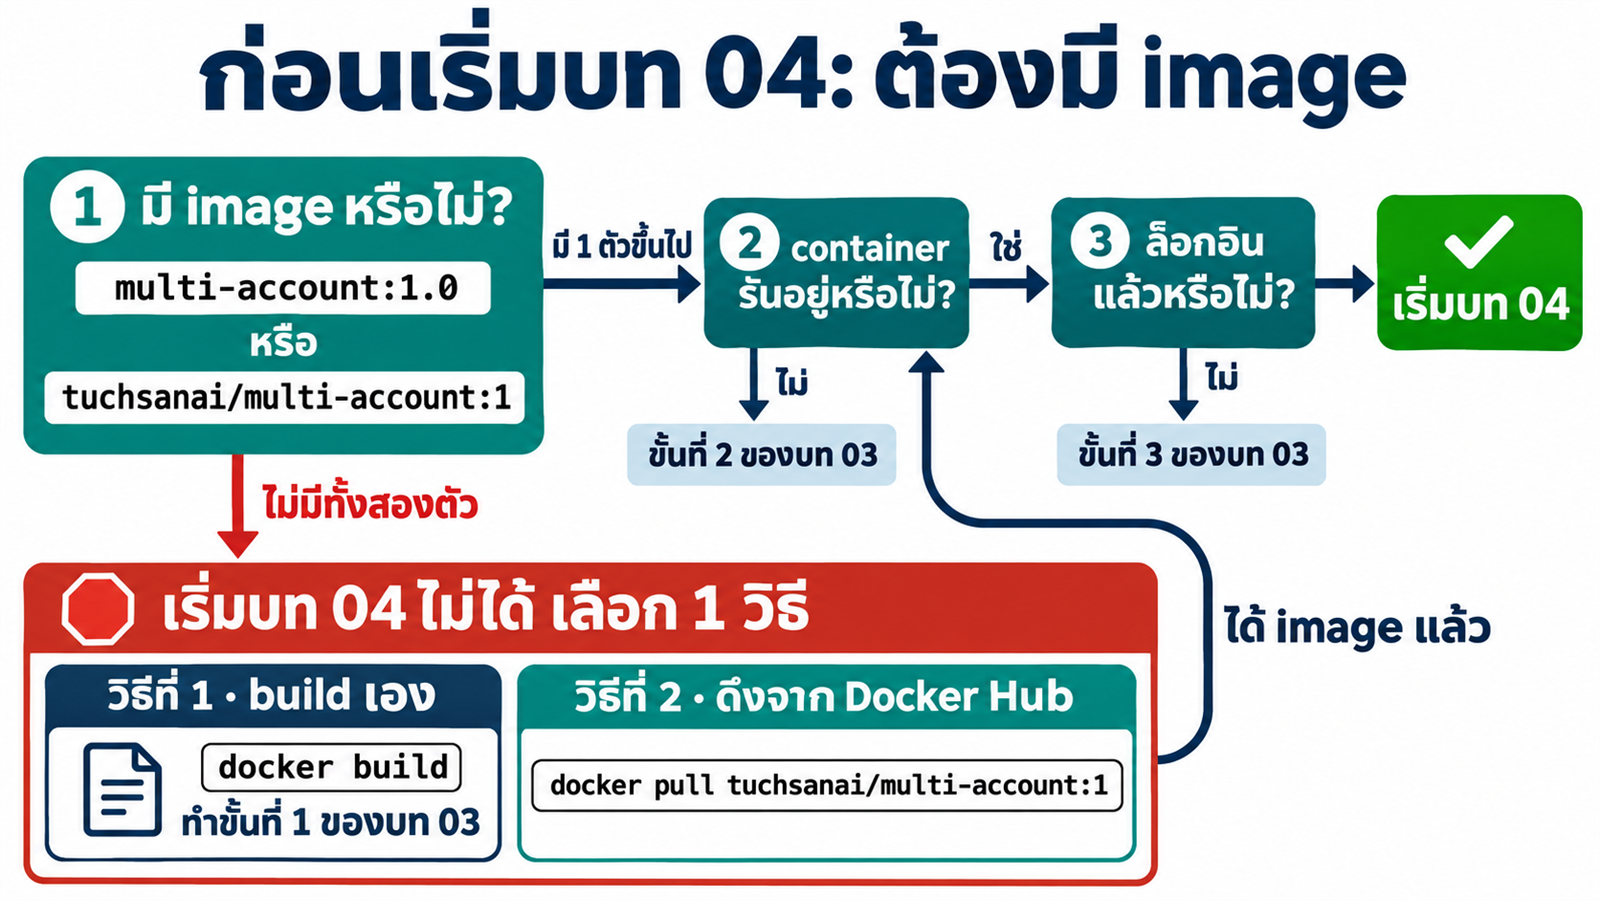
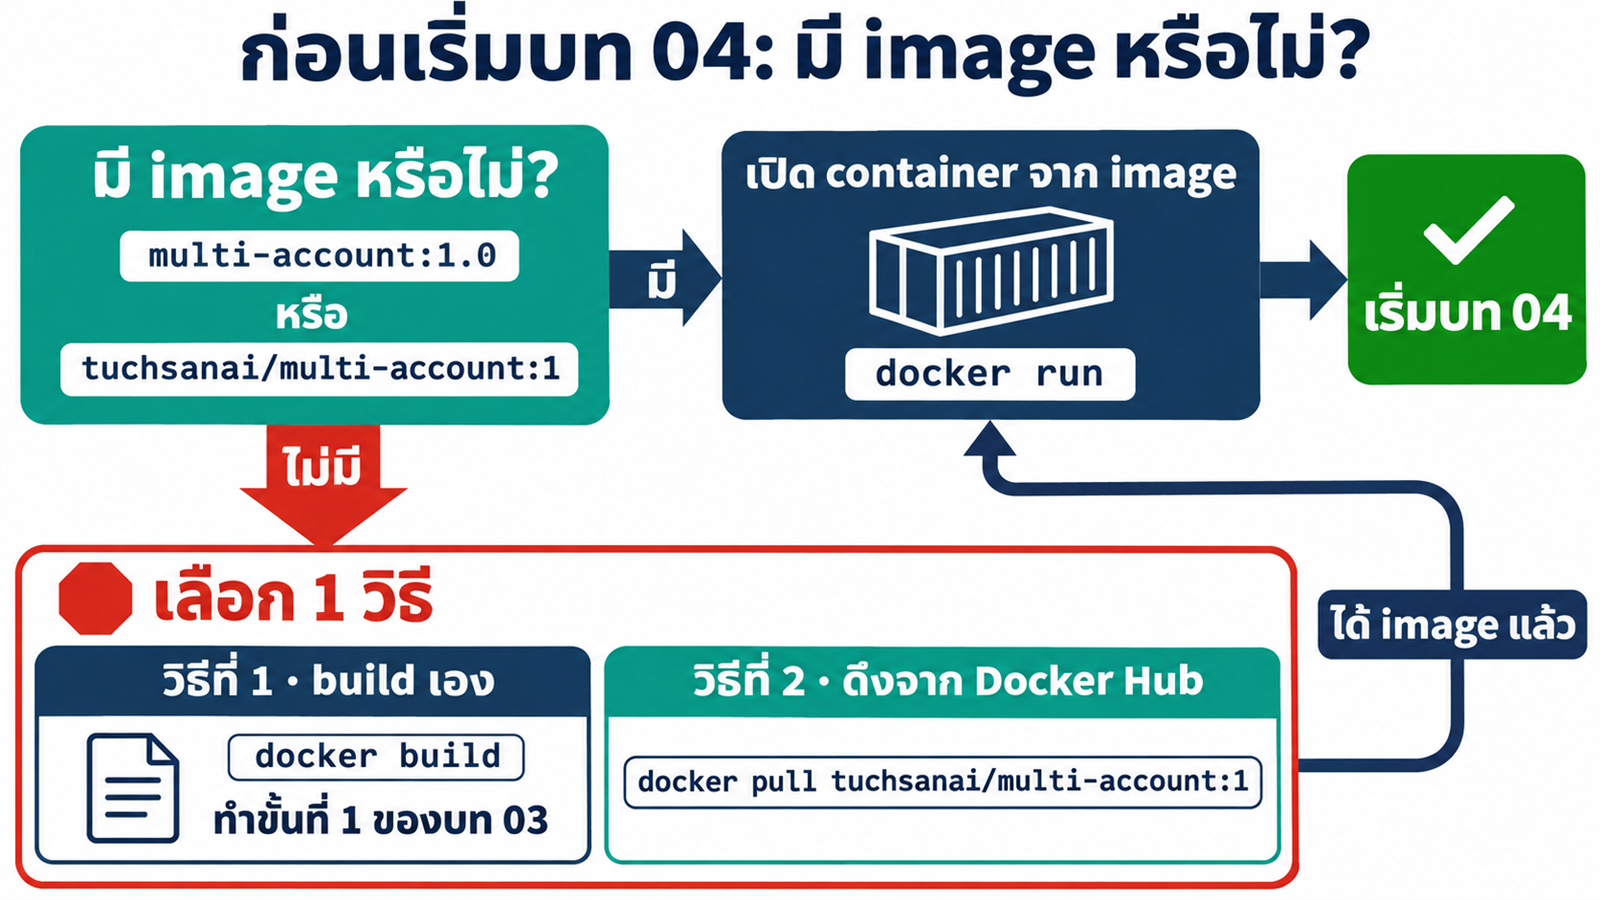
Week 02 ch04: simplify step 0 to one question, is the image there

diff --git a/01_week02/04_MultiAccount_Skill/README.md b/01_week02/04_MultiAccount_Skill/README.md
@@ -5,7 +5,7 @@
 ใช้ container `multi-account` จาก [03_MultiAccount_Container](../03_MultiAccount_Container/README.md) สร้างสกิลให้ AI สั่ง `yolo1–5` และ `cyolo1–5` เป็นทีม พร้อมสถิติของทุกบัญชี
 
 > [!CAUTION]
-> **ต้องมี image `multi-account:1.0` หรือ `tuchsanai/multi-account:1` ก่อน** ถ้าไม่มีทั้งสองตัว จะทำบทนี้ไม่ได้เลย ให้ build จาก[บท 03](../03_MultiAccount_Container/README.md) หรือดึงจาก Docker Hub ตาม[ขั้นที่ 0](#ขั้นที่-0--ตรวจว่ามี-image-และ-container-จากบท-03)
+> **ต้องมี image `multi-account:1.0` หรือ `tuchsanai/multi-account:1` ก่อน** ถ้าไม่มีทั้งสองตัว จะทำบทนี้ไม่ได้เลย ให้ build จาก[บท 03](../03_MultiAccount_Container/README.md) หรือดึงจาก Docker Hub ตาม[ขั้นที่ 0](#ขั้นที่-0--ตรวจว่ามี-image-แล้วเปิด-container)
 
 ## 1. ปัญหา: มีคำสั่งครบ แต่ AI ยังใช้ไม่เป็น
 
@@ -190,16 +190,16 @@ skills/
 
 | ขั้น | ทำที่ไหน | เวลารันจริง |
 |---|---|---|
-| **0 · ตรวจว่ามี image และ container จากบท 03** | Claude Code app | – |
+| **0 · ตรวจว่ามี image แล้วเปิด container** | Claude Code app | – |
 | **1 · ให้ Claude สร้างสกิลจากสเปก (จากศูนย์)** | Claude Code app | ~43 นาที |
 | **2 · ติดตั้งสกิลด้วยการคัดลอกโฟลเดอร์** | Claude Code app (หรือลากวางใน JupyterLab) | 67.9 วินาที |
 | **3 · ทดสอบงานทีมชุดเดิมอีกครั้ง** | Claude Code app | 170.5 วินาที |
 | **4 · สลับหัวหน้าทีมและบริหารโทเค็น** | Claude Code app | 138.6 วินาที (run 69 วินาที) |
 
 > [!CAUTION]
-> **ไม่มี image `multi-account:1.0` หรือ `tuchsanai/multi-account:1` = เริ่มบทนี้ไม่ได้** ทุกขั้นทำงานใน container ที่สร้างจาก image นี้ ถ้ายังไม่มี ให้เลือก 1 ใน 2 วิธีใน[ขั้นที่ 0](#ขั้นที่-0--ตรวจว่ามี-image-และ-container-จากบท-03)
+> **ไม่มี image `multi-account:1.0` หรือ `tuchsanai/multi-account:1` = เริ่มบทนี้ไม่ได้** ทุกขั้นทำงานใน container ที่สร้างจาก image นี้ ถ้ายังไม่มี ให้เลือก 1 ใน 2 วิธีใน[ขั้นที่ 0](#ขั้นที่-0--ตรวจว่ามี-image-แล้วเปิด-container)
 
-**ต้องมีก่อน:** image `multi-account:1.0` หรือ `tuchsanai/multi-account:1` · container `multi-account` กำลังรัน · ล็อกอินอย่างน้อย 1 บัญชี Claude กับ 1 บัญชี Codex (ล็อกอินมากขึ้น ทีมก็ทำงานขนานได้มากขึ้น)
+**ต้องมีก่อน:** image `multi-account:1.0` หรือ `tuchsanai/multi-account:1`
 
 บทนี้ใช้ค่าต่อไปนี้จากบท 03 โดยตรง
 
@@ -211,7 +211,7 @@ skills/
 | โฟลเดอร์งาน | `03_MultiAccount_Container/workspace` → `/workspace` | ผลงานและข้อมูลของทุก run |
 | JupyterLab | `http://localhost:8886/lab` | ลากวางสกิลในขั้นที่ 2 (ถ้าบท 03 ใช้ port อื่น ให้เปลี่ยน `8886`) |
 
-สกิลและพรอมต์ระบุชื่อ `multi-account` ไว้ตายตัว จึงต้องตั้งชื่อ container ตามขั้นที่ 2 ของบท 03 ส่วน `/maccount` สร้าง container ชื่อ `multi-account-devtool` จึงใช้กับบทนี้ไม่ได้
+สกิลและพรอมต์ระบุชื่อ `multi-account` ไว้ตายตัว ขั้นที่ 0 จึงเปิด container ด้วยชื่อนี้ ส่วน `/maccount` สร้าง container ชื่อ `multi-account-devtool` จึงใช้กับบทนี้ไม่ได้
 
 **เปิดโฟลเดอร์งาน:** ใน Claude Code app เลือก **Code** → **New session** → เลือกโฟลเดอร์ `04_MultiAccount_Skill` ของรีโปนี้
 
@@ -225,41 +225,37 @@ skills/
     └── BENCHMARK.md       ← ผลวัด: สกิลจากศูนย์เทียบกับสกิลชุดเดิม
 ```
 
-## ขั้นที่ 0 · ตรวจว่ามี image และ container จากบท 03
+## ขั้นที่ 0 · ตรวจว่ามี image แล้วเปิด container
 
-ทำขั้นนี้ก่อนทุกครั้ง ผ่านครบแล้วจึงไปขั้นที่ 1
+บทนี้เริ่มจากคำถามเดียว: **มี image หรือไม่**
 
-![ด่านตรวจก่อนเริ่มบท 04: ด่านที่ 1 มี image multi-account:1.0 หรือ tuchsanai/multi-account:1 หรือไม่ ถ้าไม่มีทั้งสองตัวจะเริ่มบท 04 ไม่ได้ ให้เลือกวิธีที่ 1 build เองตามขั้นที่ 1 ของบท 03 หรือวิธีที่ 2 docker pull tuchsanai/multi-account:1 จาก Docker Hub ด่านที่ 2 container รันอยู่หรือไม่ ด่านที่ 3 ล็อกอินแล้วหรือไม่ ผ่านครบจึงเริ่มบท 04](img/concept-13-image-prerequisite.png)
+![ก่อนเริ่มบท 04: มี image multi-account:1.0 หรือ tuchsanai/multi-account:1 หรือไม่ ถ้ามี เปิด container จาก image ด้วย docker run แล้วเริ่มบท 04 ถ้าไม่มี เลือก 1 วิธี วิธีที่ 1 build เองตามขั้นที่ 1 ของบท 03 วิธีที่ 2 docker pull tuchsanai/multi-account:1 จาก Docker Hub](img/concept-13-image-prerequisite.png)
+
+### มี image: เปิด container
 
 > [!IMPORTANT]
 > **📋 คัดลอกกล่องนี้ → Claude Code app แล้วกด Enter**
 >
 > ```text
-> ตรวจความพร้อมก่อนเริ่มบท 04 ตรวจอย่างเดียว ห้าม build สร้าง ลบ หยุด หรือแก้ container / image / volume และห้ามล็อกอินแทนผม (ยกเว้น docker tag ในข้อ 1)
+> ตรวจ image แล้วเปิด container สำหรับบท 04 ห้ามลบ container / image / volume ที่มีอยู่ และห้ามล็อกอินแทนผม
 > 1. มี image multi-account:1.0 หรือ tuchsanai/multi-account:1 อย่างน้อย 1 ตัวหรือไม่ (docker image inspect)
->    ถ้ามีเฉพาะ tuchsanai/multi-account:1 ให้สั่ง docker tag tuchsanai/multi-account:1 multi-account:1.0
 >    ถ้าไม่มีทั้งสองตัว ให้หยุดทันทีและบอกว่าต้อง build จากบท 03 หรือ docker pull tuchsanai/multi-account:1 ก่อน
-> 2. container multi-account กำลังรันและสร้างจาก image multi-account:1.0 หรือไม่
-> 3. volume ai-accounts ต่ออยู่ที่ /root/ai-accounts และ /workspace ต่อกับโฟลเดอร์ใดบนเครื่องผม
-> 4. สถานะล็อกอิน yolo1..5 (yoloN auth status ดูแค่ loggedIn) และ cyolo1..5 (cyoloN login status) ห้ามแสดงอีเมล องค์กร หรือ token
-> สรุปเป็นตาราง รายการ | ผล | สิ่งที่ต้องทำต่อ แล้วหยุด
+>    ถ้ามีเฉพาะ tuchsanai/multi-account:1 ให้สั่ง docker tag tuchsanai/multi-account:1 multi-account:1.0
+> 2. ถ้า container multi-account กำลังรันอยู่แล้ว ใช้ตัวเดิม ถ้าหยุดอยู่ให้ docker start ถ้ายังไม่มีให้สร้างด้วย
+>    docker run -dit --name multi-account --privileged -p <PORT>:8888 -v ai-accounts:/root/ai-accounts -v <path เต็มของ ../03_MultiAccount_Container/workspace>:/workspace multi-account:1.0
+>    PORT เริ่มที่ 8886 ถ้าชนใช้เลขว่างถัดไป และสร้างโฟลเดอร์ workspace ถ้ายังไม่มี
+> 3. รอจน http://localhost:<PORT>/lab ตอบ 200 แล้วดูสถานะล็อกอิน yolo1..5 (yoloN auth status ดูแค่ loggedIn) และ cyolo1..5 (cyoloN login status) ห้ามแสดงอีเมล องค์กร หรือ token
+> สรุปเป็นตาราง image | container | URL ของ JupyterLab | บัญชี | ล็อกอินแล้ว/ยัง แล้วหยุด
 > ```
 
-| ผลที่ได้ | ทำต่อ |
-|---|---|
-| **ไม่มีทั้ง `multi-account:1.0` และ `tuchsanai/multi-account:1`** | **หยุด** เลือก 1 ใน 2 วิธีด้านล่าง |
-| มี image แต่ไม่มี container หรือ container ไม่ได้รัน | ทำ[ขั้นที่ 2 ของบท 03](../03_MultiAccount_Container/README.md#ขั้นที่-2--สร้าง-container-จาก-image-1-นาที) |
-| ยังไม่มีบัญชี Claude หรือ Codex ที่ล็อกอิน | ทำ[ขั้นที่ 3 ของบท 03](../03_MultiAccount_Container/README.md#ขั้นที่-3--ล็อกอินและให้-claude-ตรวจสถานะ-15-นาที) |
-| ผ่านครบ | ไปขั้นที่ 1 |
+ขั้นถัดไปใช้บัญชีจริง ถ้ายังไม่ได้ล็อกอิน ให้ล็อกอินอย่างน้อย 1 บัญชี Claude กับ 1 บัญชี Codex ตาม[ขั้นที่ 3 ของบท 03](../03_MultiAccount_Container/README.md#ขั้นที่-3--ล็อกอินและให้-claude-ตรวจสถานะ-15-นาที)
 
-### ถ้าไม่มี image: เลือก 1 ใน 2 วิธี
+### ไม่มี image: เลือก 1 ใน 2 วิธี
 
 | วิธี | ทำอย่างไร | เหมาะกับ |
 |---|---|---|
 | **1 · build เอง** | ทำ[ขั้นที่ 1 ของบท 03](../03_MultiAccount_Container/README.md#ขั้นที่-1--ให้-claude-สร้าง-image-30-นาที) (~30 นาที) | อยากเข้าใจและควบคุมสิ่งที่อยู่ใน image |
 | **2 · ดึงจาก Docker Hub** | วางพรอมต์ในกล่องด้านล่าง | ต้องการเริ่มบทนี้เร็ว ไม่ต้อง build |
-
-image สำเร็จรูปของผู้สอนอยู่บน Docker Hub ชื่อ `tuchsanai/multi-account:1` เป็นโปรแกรมชุดเดียวกับที่ build ในบท 03
 
 > [!IMPORTANT]
 > **📋 คัดลอกกล่องนี้ → Claude Code app แล้วกด Enter**
@@ -270,7 +266,7 @@ image สำเร็จรูปของผู้สอนอยู่บน D
 > 2. ยืนยันด้วย docker image inspect tuchsanai/multi-account:1 แล้วสรุปขนาด image และเวลาที่ใช้ แล้วหยุด
 > ```
 
-ได้ image แล้ว รันพรอมต์ตรวจความพร้อมด้านบนอีกครั้ง พรอมต์จะตั้งชื่อ image ให้ตรงบทเรียน แล้วทำต่อตามตารางผล
+ได้ image แล้ว กลับไปวางพรอมต์ในหัวข้อ "มี image: เปิด container"
 
 ## ขั้นที่ 1 · ให้ Claude สร้างสกิลจากสเปก (~43 นาที)
 
